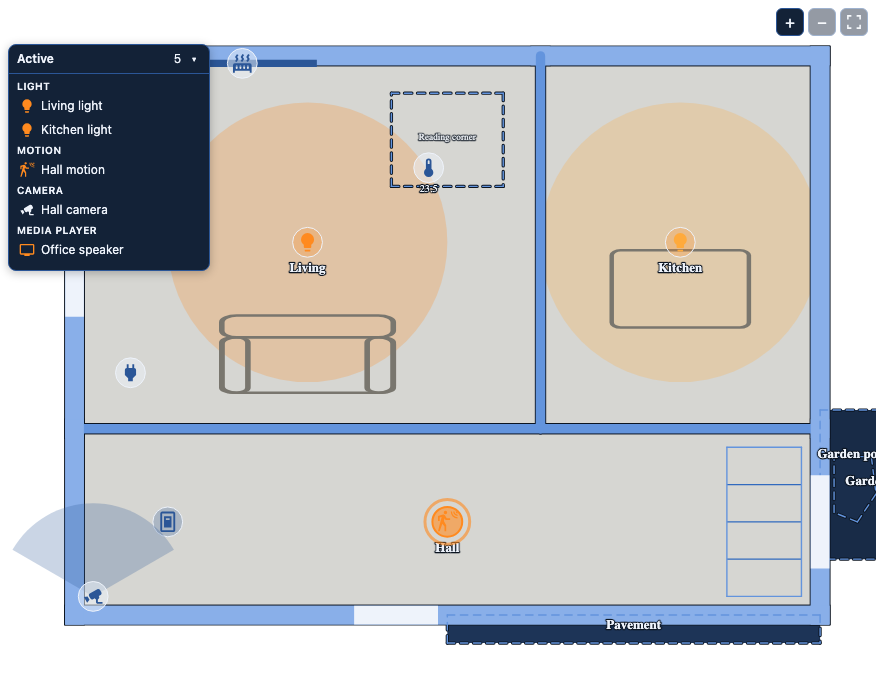
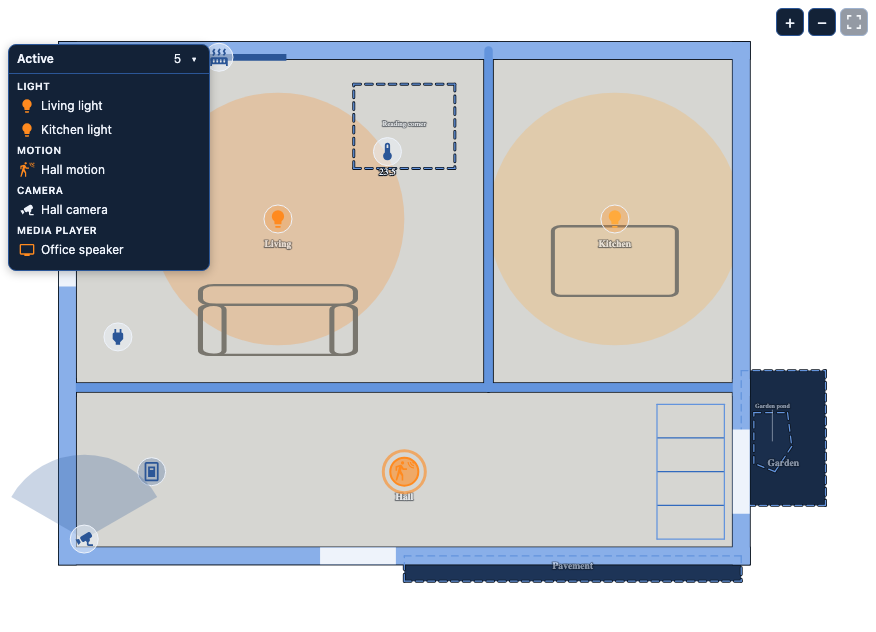
Refresh the README images, add a phone shot, note the release order
The images predated 0.12.15 (garden clipped at the right edge). doc-shots
now also writes card-phone.png at 375 px. WORKFLOW: release steps run one
at a time, tag last. CHANGELOG and DECISIONS record this polish.

diff --git a/docs/DECISIONS.md b/docs/DECISIONS.md
@@ -2,6 +2,30 @@
 
 Newest first. A change supersedes; nothing is edited.
 
+## 2026-10-02: small-room names shrink then go outside on a leader; Active list folds under 480 px (0.12.17)
+
+Diego: "fix small room collision". In the demo "Garden" sat on the pond inside
+it and "Garden pond" (72 wide) ran over the garden's edge. The rule now, per
+room name: measure the room's horizontal chord at the anchor row in the screen
+frame; if the text box (len x 0.6 x size) is wider, shrink to a floor of 7k
+(zones 6k), centred. Still too wide: place it just outside the room, below or
+above, on a thin `lbl-leader` line back to the anchor, drawn under the text and
+chosen so the line crosses no other text. The leader exists only in that case.
+A name's spots also skip any smaller named room inside its own. A name that fits
+but finds no free row still keeps its centroid (the documented last resort,
+unchanged). Costs: three old tests pinned superseded values and were adjusted
+(zone label 16 became 14.29 at scale 0.5; the rotation test no longer compares
+label positions, which depend on the screen frame; the two-zones test uses 60
+wide zones, since a 40 wide one now sends its name outside).
+
+Active list: the old default (collapsed under 500 px, once, only with nothing
+stored) left the list open over a phone plan as soon as a drag had written a
+position. Now the card's width decides, under 480 px folded, and follows a
+resize, until the user folds or unfolds it by hand; storage keeps `chosen` and
+a drag alone does not set it. An old entry saying collapsed counts as chosen.
+The 500 px assumption in the 2026-09 entry is superseded; 480 px is the new
+guess (a 375 px phone, a narrow column), checked in Chromium only.
+
 ## 2026-10-02: room names smaller, half transparent, inside their room (0.12.16)
 
 Diego's screenshot: "Laundry" sat on the edge of the next area. Cause: the

diff --git a/README.md b/README.md
@@ -9,9 +9,9 @@ Assistant every day.
 
 ![The demo house as a live card: lights come on, a door opens, the plan zooms, switches floor and darkens at dusk; then the editor, dragging a device.](docs/img/demo.gif)
 
-| The card, live | The editor |
-|---|---|
-| ![The card: the demo ground floor, two lights and the hall motion sensor on.](docs/img/card-overview.png) | ![The editor with the demo house loaded.](docs/img/editor-overview.png) |
+| The card, live | On a phone (375 px) | The editor |
+|---|---|---|
+| ![The card: the demo ground floor, two lights and the hall motion sensor on.](docs/img/card-overview.png) | ![The same card at phone width: the Active list starts folded.](docs/img/card-phone.png) | ![The editor with the demo house loaded.](docs/img/editor-overview.png) |
 
 ## What you get
 
@@ -27,7 +27,8 @@ Assistant every day.
   `icon_size` scales them further.
 - A floating **Active** list on the card: every light, sensor, camera, TV and
   speaker that is on, on any floor. Tap a row for its more-info dialog; drag
-  the list aside or fold it away.
+  the list aside or fold it away. On a card narrower than 480 px it starts
+  folded, so it does not cover the plan.
 - Pinch, drag and double-tap to zoom and pan on a phone, Ctrl/Cmd+wheel and
   drag on a desktop. A kiosk mode strips the card down to the plan for a
   wall tablet.

diff --git a/CHANGELOG.md b/CHANGELOG.md
@@ -1,5 +1,12 @@
 # Changelog
 
+## Unreleased
+
+- A room name wider than its room now shrinks to fit (down to 7, zones 6). If it still does not fit, it goes just outside the room on a thin leader line back to the room. A name also keeps off a smaller room drawn inside its own: in the demo, "Garden" and "Garden pond" no longer overprint.
+- The Active list starts folded on a card narrower than 480 px (it was 500 px, and only when nothing was stored, so a list that had merely been dragged stayed open over the plan). The card's width decides until you fold or unfold the list by hand; from then on your choice stays.
+- README and docs images regenerated from the current build (the garden was clipped at the right edge); a phone-width card picture added.
+- docs/WORKFLOW.md: release steps run one at a time, the tag last.
+
 ## 0.12.16
 
 - Room names are smaller (11 instead of 14, zones 8 instead of 10) and drawn at half opacity.

diff --git a/docs/WORKFLOW.md b/docs/WORKFLOW.md
@@ -125,6 +125,12 @@ separately. End with a release verdict.
 Only after Diego's yes. Once the push and the tag are approved, finish every
 step without asking again.
 
+Run the steps one at a time, never chained in one command, and read each
+exit status on its own line. The tag is made, and pushed, last: only after
+the merge commit exists on `main`. On 2026-10-02 a chained command tagged and
+pushed v0.12.16 on the old `main` after the merge had failed with a
+transient git write error.
+
 1. Bump `version` in `custom_components/floorplan_studio/manifest.json`.
    `package.json` stays at 0.1.0.
 2. Rename the CHANGELOG `## Unreleased` heading to the version.
